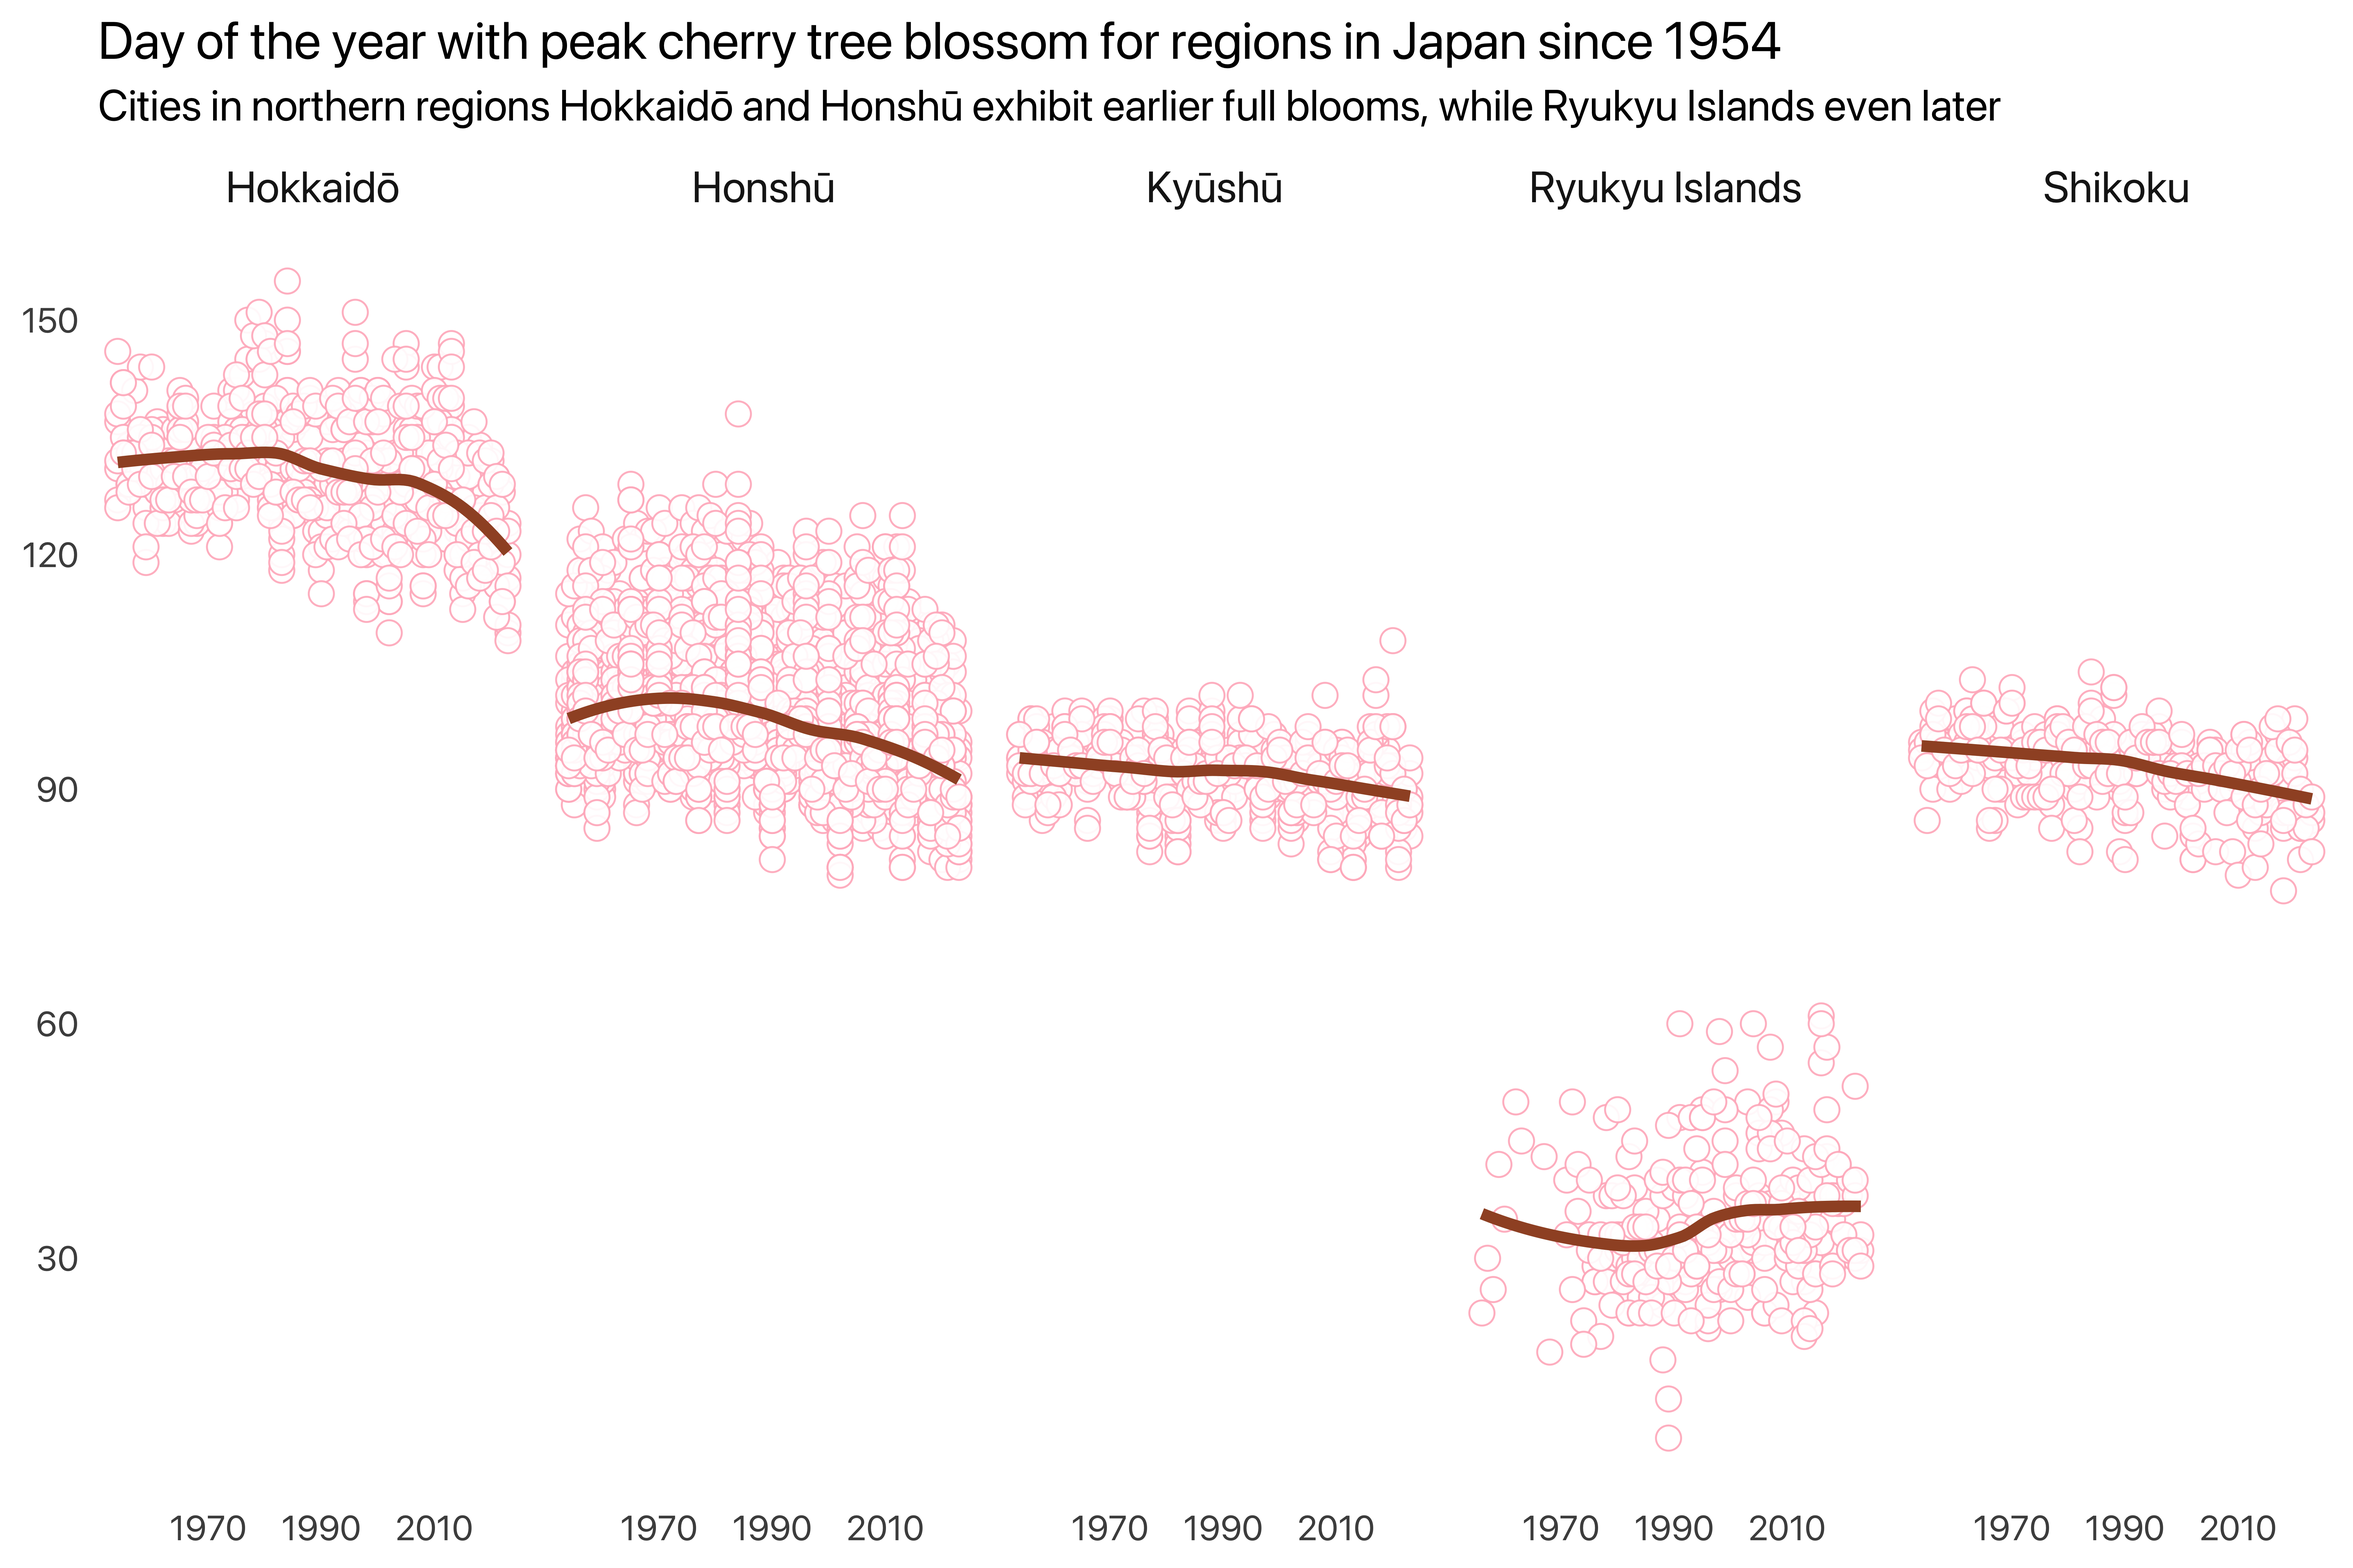
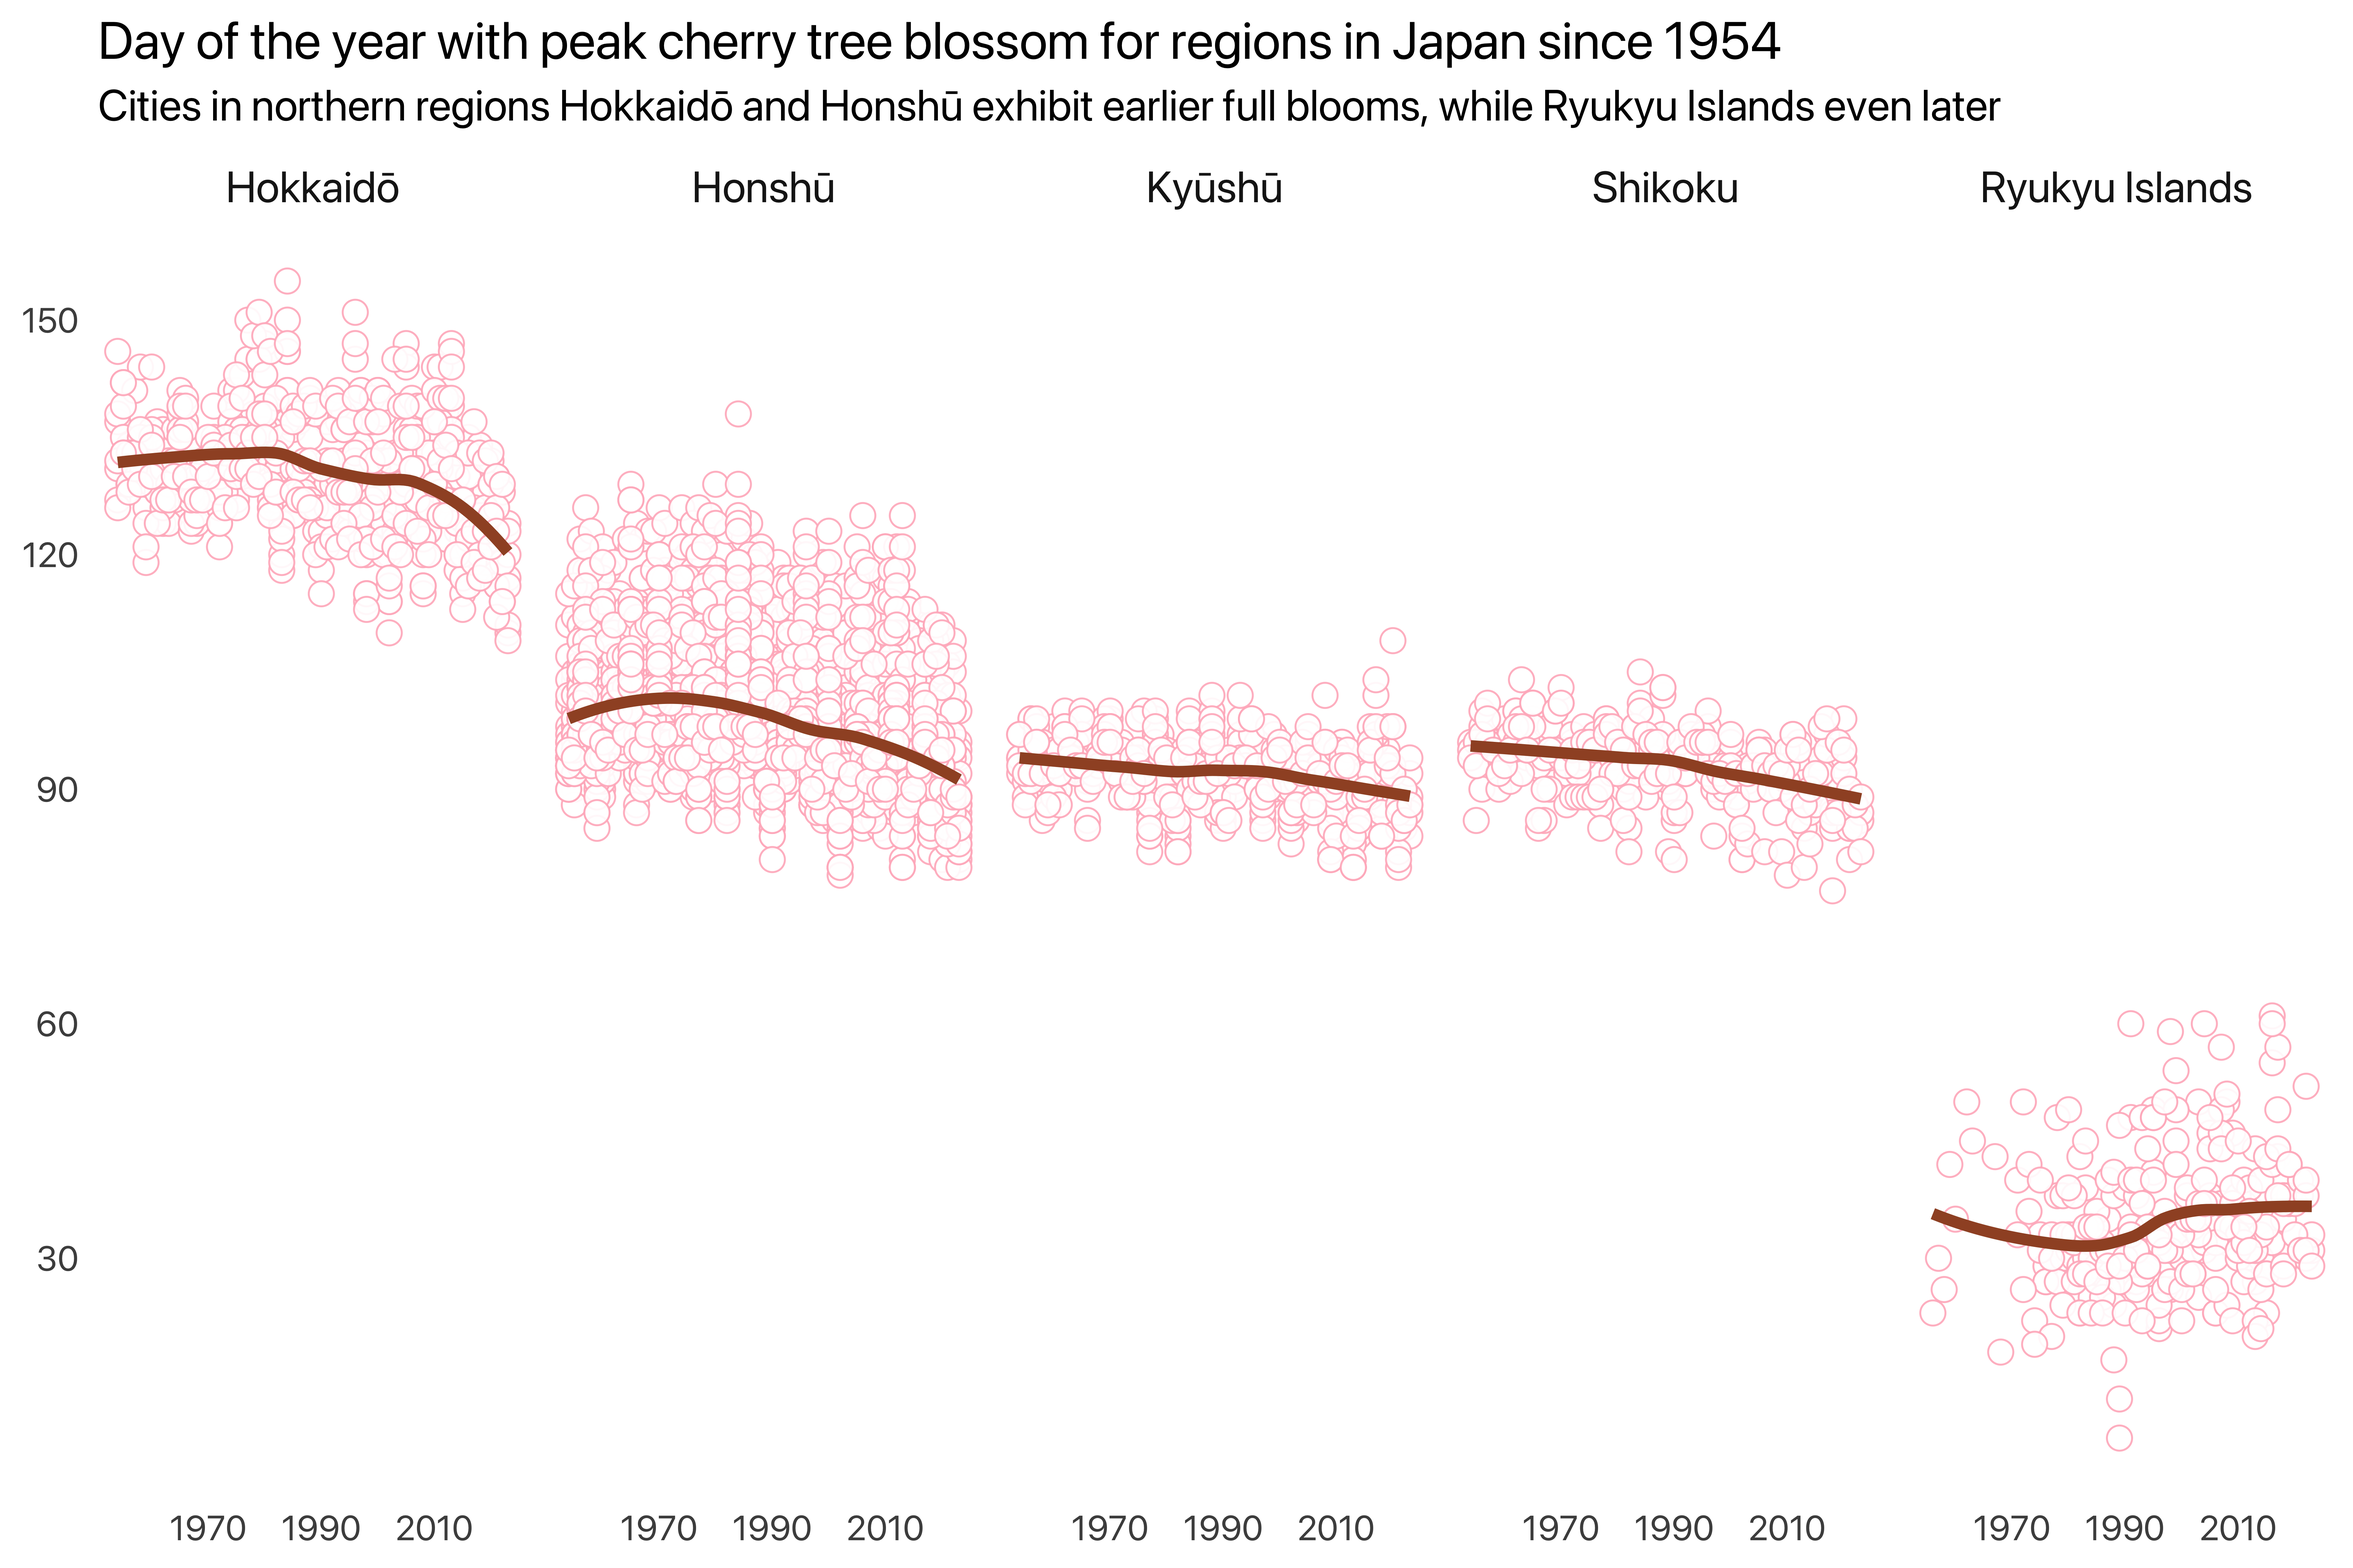
Changed order of regions in posts/sakura-visualizations

diff --git a/docs/posts/sakura-visualizations/index.html b/docs/posts/sakura-visualizations/index.html
@@ -244,7 +244,7 @@ cookieconsent.run({
 
 <p>While I was traveling Japan earlier this year, I had the pleasure to experience sakura, the famous Japanese cherry blossoms. These blossoms are highly significant in Japanese culture, symbolizing the transient nature of life due to their brief blooming period. Sakura typically bloom in spring, from late March to early May, depending on the region. The blossoming of cherry trees is celebrated with hanami, a traditional custom of enjoying the beauty of flowers, often involving picnics under the blooming trees.</p>
 <p>Climate change is causing sakura to bloom earlier and for shorter periods due to rising temperatures and shifting phenological patterns. This disrupts traditional hanami festivals, affects pollination success, and leads to regional variations in bloom timing, with urban areas often experiencing more pronounced shifts.</p>
-<p>In this blog post, I visualize data with respect to cherry blossom blooming periods over regions and time. I provide a comprehensive guide on loading and preparing the corresponding data for analysis using both R and Python. The analysis spans from 1953 to 2023, leveraging the <code>tidyverse</code> family of packages for R and the <code>ibis-framework</code> for Python, complemented by <code>plotnine</code> for visualizations. The primary focus is to transform and merge datasets detailing the first and full bloom dates of cherry blossoms, preparing them for visualization.</p>
+<p>In this blog post, I visualize data with respect to cherry blossom blooming periods over regions and time. I provide a comprehensive guide on loading and preparing the corresponding data for analysis using both R and Python. The analysis spans from 1953 to 2023, leveraging the <code>tidyverse</code> family of packages for R and the <code>ibis-framework</code> for Python, complemented by <code>plotnine</code> for visualizations. I draw some inspiration from <a href="https://yuriko-schumacher.github.io/statistical-analysis-of-cherry-blossom-first-bloom-date/">this blog post</a> by Yuriko Schuhmacher. My primary focus is to transform and merge datasets detailing the first and full bloom dates of cherry blossoms and visualizing them by region.</p>
 <section id="loading-packages-and-data" class="level2">
 <h2 class="anchored" data-anchor-id="loading-packages-and-data">Loading packages and data</h2>
 <p>For the R version, I rely on the <code>tidyverse</code> family of packages and list the required packages explicitly. For the Python version, I use <code>ibis-framework</code> for data manipulation (see my post on <a href="../../posts/dplyr-vs-ibis/index.html">dplyr-vs-ibis</a> for more information) and <code>plotnine</code> for visualizations.</p>
@@ -356,7 +356,7 @@ cookieconsent.run({
 </div>
 </div>
 </div>
-<p>Before we move on to visualizations, let’s add the regions to the sakura dates and keep only regions that are still currently observed and with valid full bloom days and days between first and full bloom. In addition, I drop year 1953 to have exactly 70 years of data.</p>
+<p>Before we move on to visualizations, let’s add the regions to the sakura dates and keep only regions that are still currently observed and with valid full bloom days and days between first and full bloom. In addition, I drop year 1953 to have exactly 70 years of data. Finally, I want to order the regions from north to south.</p>
 <div class="tabset-margin-container"></div><div class="panel-tabset">
 <ul class="nav nav-tabs" role="tablist"><li class="nav-item" role="presentation"><a class="nav-link active" id="tabset-4-1-tab" data-bs-toggle="tab" data-bs-target="#tabset-4-1" role="tab" aria-controls="tabset-4-1" aria-selected="true">R</a></li><li class="nav-item" role="presentation"><a class="nav-link" id="tabset-4-2-tab" data-bs-toggle="tab" data-bs-target="#tabset-4-2" role="tab" aria-controls="tabset-4-2" aria-selected="false">Python</a></li></ul>
 <div class="tab-content">
@@ -367,10 +367,14 @@ cookieconsent.run({
 <span id="cb7-3"><a href="#cb7-3" aria-hidden="true" tabindex="-1"></a>  <span class="fu">filter</span>(is_currently_observed <span class="sc">==</span> <span class="cn">TRUE</span> <span class="sc">&amp;</span></span>
 <span id="cb7-4"><a href="#cb7-4" aria-hidden="true" tabindex="-1"></a>          year <span class="sc">&gt;=</span> <span class="dv">1954</span> <span class="sc">&amp;</span></span>
 <span id="cb7-5"><a href="#cb7-5" aria-hidden="true" tabindex="-1"></a>          <span class="sc">!</span><span class="fu">is.na</span>(days_to_full_bloom) <span class="sc">&amp;</span> </span>
-<span id="cb7-6"><a href="#cb7-6" aria-hidden="true" tabindex="-1"></a>          <span class="sc">!</span><span class="fu">is.na</span>(days_from_first_to_full_bloom))</span></code><button title="Copy to Clipboard" class="code-copy-button"><i class="bi"></i></button></pre></div>
+<span id="cb7-6"><a href="#cb7-6" aria-hidden="true" tabindex="-1"></a>          <span class="sc">!</span><span class="fu">is.na</span>(days_from_first_to_full_bloom))</span>
+<span id="cb7-7"><a href="#cb7-7" aria-hidden="true" tabindex="-1"></a></span>
+<span id="cb7-8"><a href="#cb7-8" aria-hidden="true" tabindex="-1"></a>sakura_data <span class="ot">&lt;-</span> sakura_data <span class="sc">|&gt;</span> </span>
+<span id="cb7-9"><a href="#cb7-9" aria-hidden="true" tabindex="-1"></a>  <span class="fu">mutate</span>(<span class="at">region =</span> <span class="fu">factor</span>(region, <span class="at">levels =</span> <span class="fu">c</span>(<span class="st">"Hokkaidō"</span>, <span class="st">"Honshū"</span>, <span class="st">"Kyūshū"</span>, <span class="st">"Shikoku"</span>, <span class="st">"Ryukyu Islands"</span>)))</span></code><button title="Copy to Clipboard" class="code-copy-button"><i class="bi"></i></button></pre></div>
 </div>
 </div>
 <div id="tabset-4-2" class="tab-pane" role="tabpanel" aria-labelledby="tabset-4-2-tab">
+<p>Since <code>ibis-framework</code> does not support factor variables, we have to use <code>pandas</code> here.</p>
 <div class="cell">
 <div class="sourceCode cell-code" id="cb8"><pre class="sourceCode python code-with-copy"><code class="sourceCode python"><span id="cb8-1"><a href="#cb8-1" aria-hidden="true" tabindex="-1"></a>sakura_data <span class="op">=</span> (sakura_dates</span>
 <span id="cb8-2"><a href="#cb8-2" aria-hidden="true" tabindex="-1"></a>  .left_join(locations_regions, <span class="st">"location"</span>)</span>
@@ -378,7 +382,11 @@ cookieconsent.run({
 <span id="cb8-4"><a href="#cb8-4" aria-hidden="true" tabindex="-1"></a>           _.year <span class="op">&gt;=</span> <span class="dv">1954</span>, </span>
 <span id="cb8-5"><a href="#cb8-5" aria-hidden="true" tabindex="-1"></a>           _.days_to_full_bloom.notnull(),</span>
 <span id="cb8-6"><a href="#cb8-6" aria-hidden="true" tabindex="-1"></a>           _.days_from_first_to_full_bloom.notnull()])</span>
-<span id="cb8-7"><a href="#cb8-7" aria-hidden="true" tabindex="-1"></a>)</span></code><button title="Copy to Clipboard" class="code-copy-button"><i class="bi"></i></button></pre></div>
+<span id="cb8-7"><a href="#cb8-7" aria-hidden="true" tabindex="-1"></a>)</span>
+<span id="cb8-8"><a href="#cb8-8" aria-hidden="true" tabindex="-1"></a></span>
+<span id="cb8-9"><a href="#cb8-9" aria-hidden="true" tabindex="-1"></a><span class="im">import</span> pandas <span class="im">as</span> pd</span>
+<span id="cb8-10"><a href="#cb8-10" aria-hidden="true" tabindex="-1"></a>sakura_data <span class="op">=</span> sakura_data.to_pandas()</span>
+<span id="cb8-11"><a href="#cb8-11" aria-hidden="true" tabindex="-1"></a>sakura_data[<span class="st">"region"</span>] <span class="op">=</span> pd.Categorical(sakura_data[<span class="st">"region"</span>], categories <span class="op">=</span> [<span class="st">"Hokkaidō"</span>, <span class="st">"Honshū"</span>, <span class="st">"Kyūshū"</span>, <span class="st">"Shikoku"</span>, <span class="st">"Ryukyu Islands"</span>], ordered <span class="op">=</span> <span class="va">True</span>)</span></code><button title="Copy to Clipboard" class="code-copy-button"><i class="bi"></i></button></pre></div>
 </div>
 </div>
 </div>
@@ -528,6 +536,7 @@ cookieconsent.run({
 </div>
 </div>
 <div id="tabset-7-2" class="tab-pane" role="tabpanel" aria-labelledby="tabset-7-2-tab">
+<p>Note that point shape in <code>plotnine</code> are according to <code>matplotlib.markers</code>, see the list <a href="https://matplotlib.org/stable/api/markers_api.html">here</a>.</p>
 <div class="cell">
 <div class="sourceCode cell-code" id="cb15"><pre class="sourceCode python code-with-copy"><code class="sourceCode python"><span id="cb15-1"><a href="#cb15-1" aria-hidden="true" tabindex="-1"></a>(ggplot(sakura_data, </span>
 <span id="cb15-2"><a href="#cb15-2" aria-hidden="true" tabindex="-1"></a>        aes(x <span class="op">=</span> <span class="st">"year"</span>, y <span class="op">=</span> <span class="st">"days_from_first_to_full_bloom"</span>))</span>
@@ -1070,7 +1079,7 @@ window.document.addEventListener("DOMContentLoaded", function (event) {
     </div>
   </div>
 </footer>
-<script>var lightboxQuarto = GLightbox({"closeEffect":"zoom","loop":false,"descPosition":"bottom","openEffect":"zoom","selector":".lightbox"});
+<script>var lightboxQuarto = GLightbox({"descPosition":"bottom","selector":".lightbox","closeEffect":"zoom","loop":false,"openEffect":"zoom"});
 (function() {
   let previousOnload = window.onload;
   window.onload = () => {

diff --git a/docs/index.html b/docs/index.html
@@ -217,7 +217,7 @@ window.Quarto = {
 
 <div class="quarto-listing quarto-listing-container-grid" id="listing-listing">
 <div class="list grid quarto-listing-cols-3">
-<div class="g-col-1" data-index="0" data-categories="R,Python,Visualization" data-listing-date-sort="1716760800000" data-listing-file-modified-sort="1720161071385" data-listing-date-modified-sort="NaN" data-listing-reading-time-sort="11" data-listing-word-count-sort="2145">
+<div class="g-col-1" data-index="0" data-categories="R,Python,Visualization" data-listing-date-sort="1716760800000" data-listing-file-modified-sort="1720162227905" data-listing-date-modified-sort="NaN" data-listing-reading-time-sort="12" data-listing-word-count-sort="2227">
 <a href="./posts/sakura-visualizations/index.html" class="quarto-grid-link">
 <div class="quarto-grid-item card h-100 card-left">
 <p class="card-img-top">
